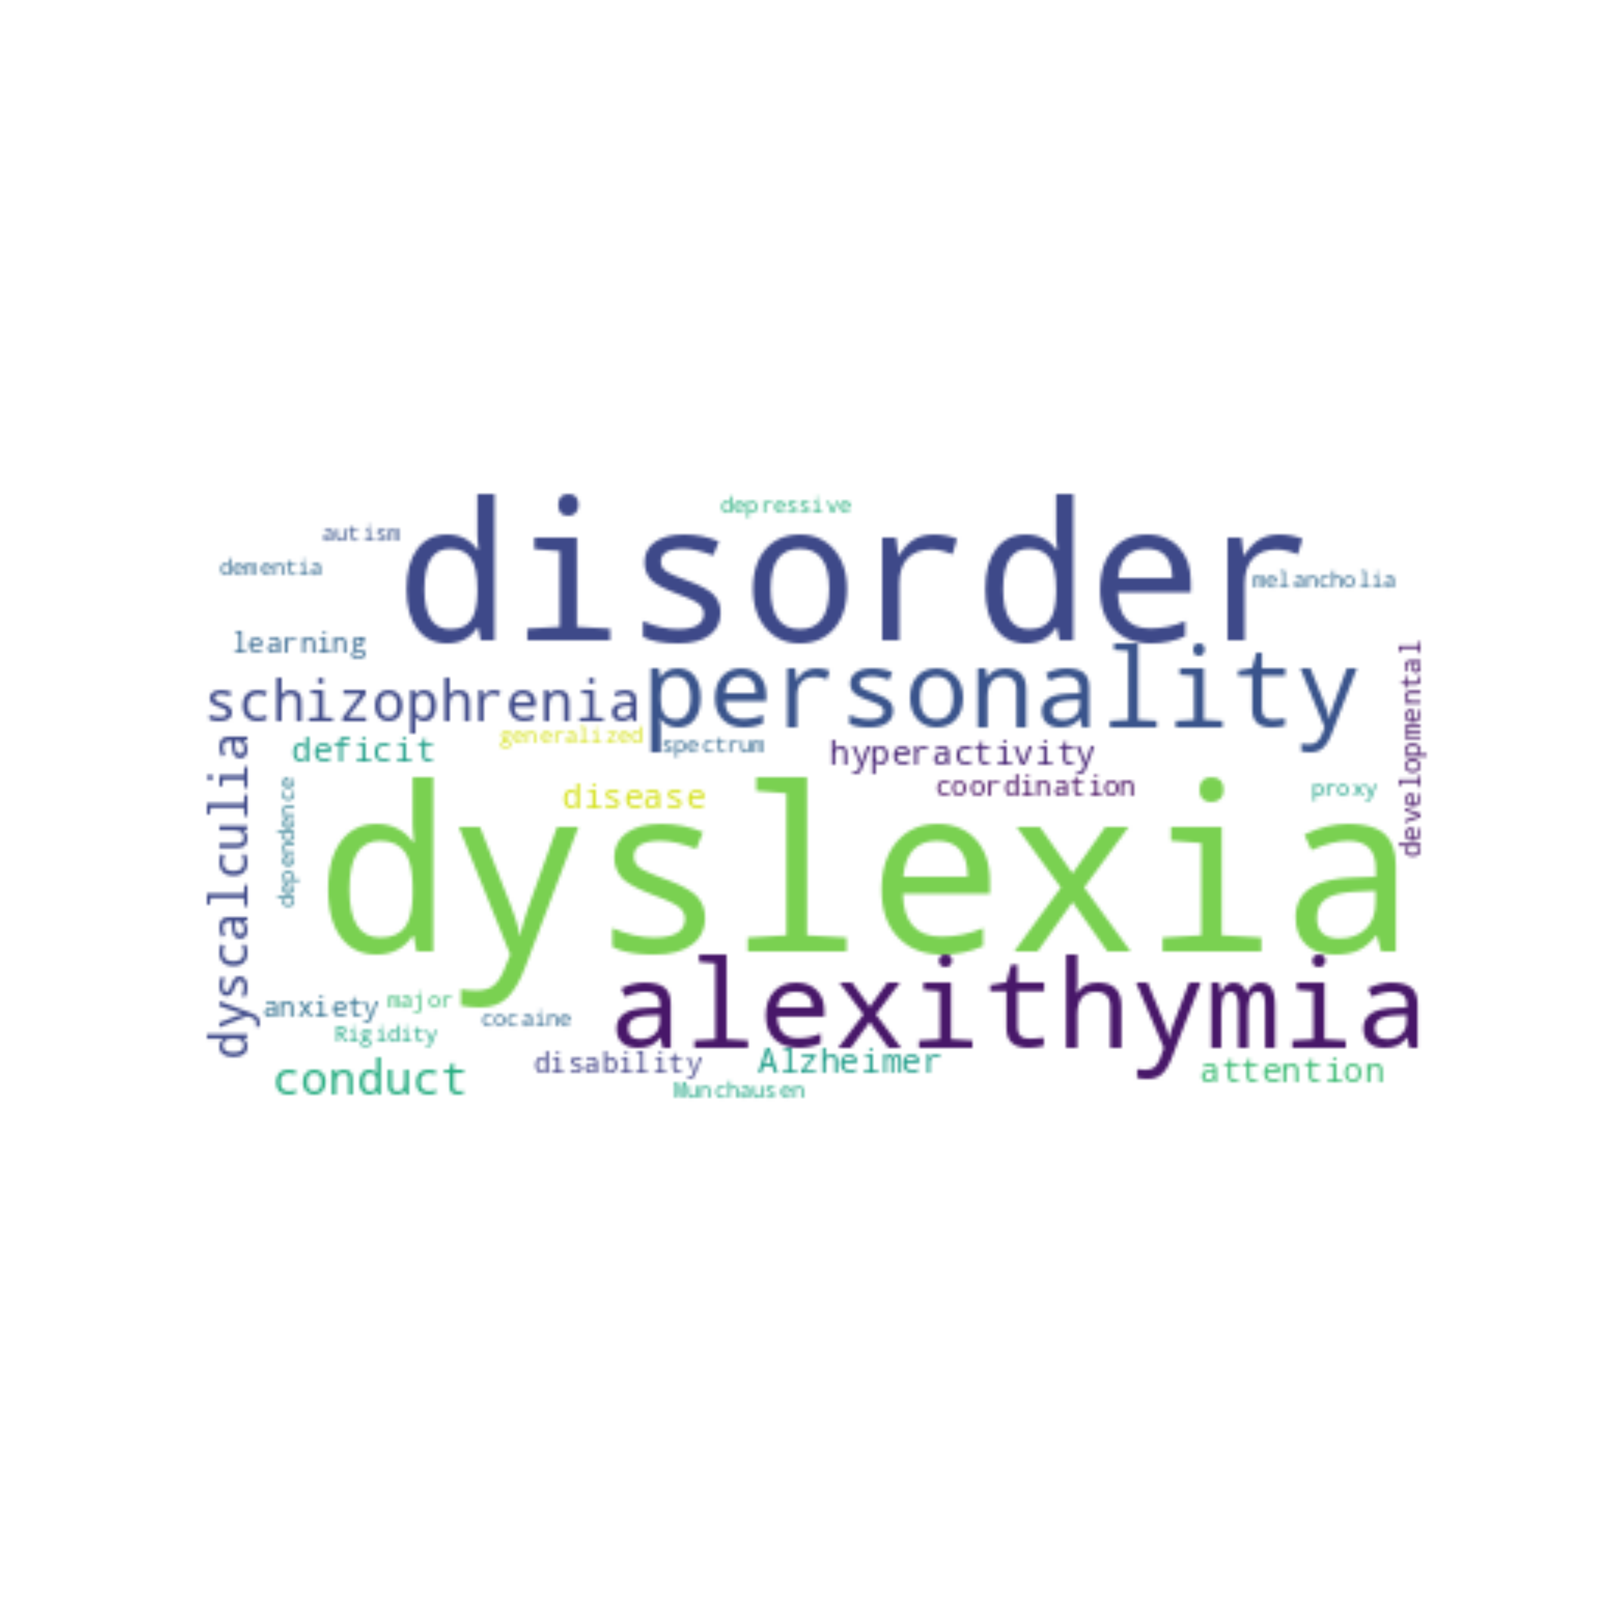
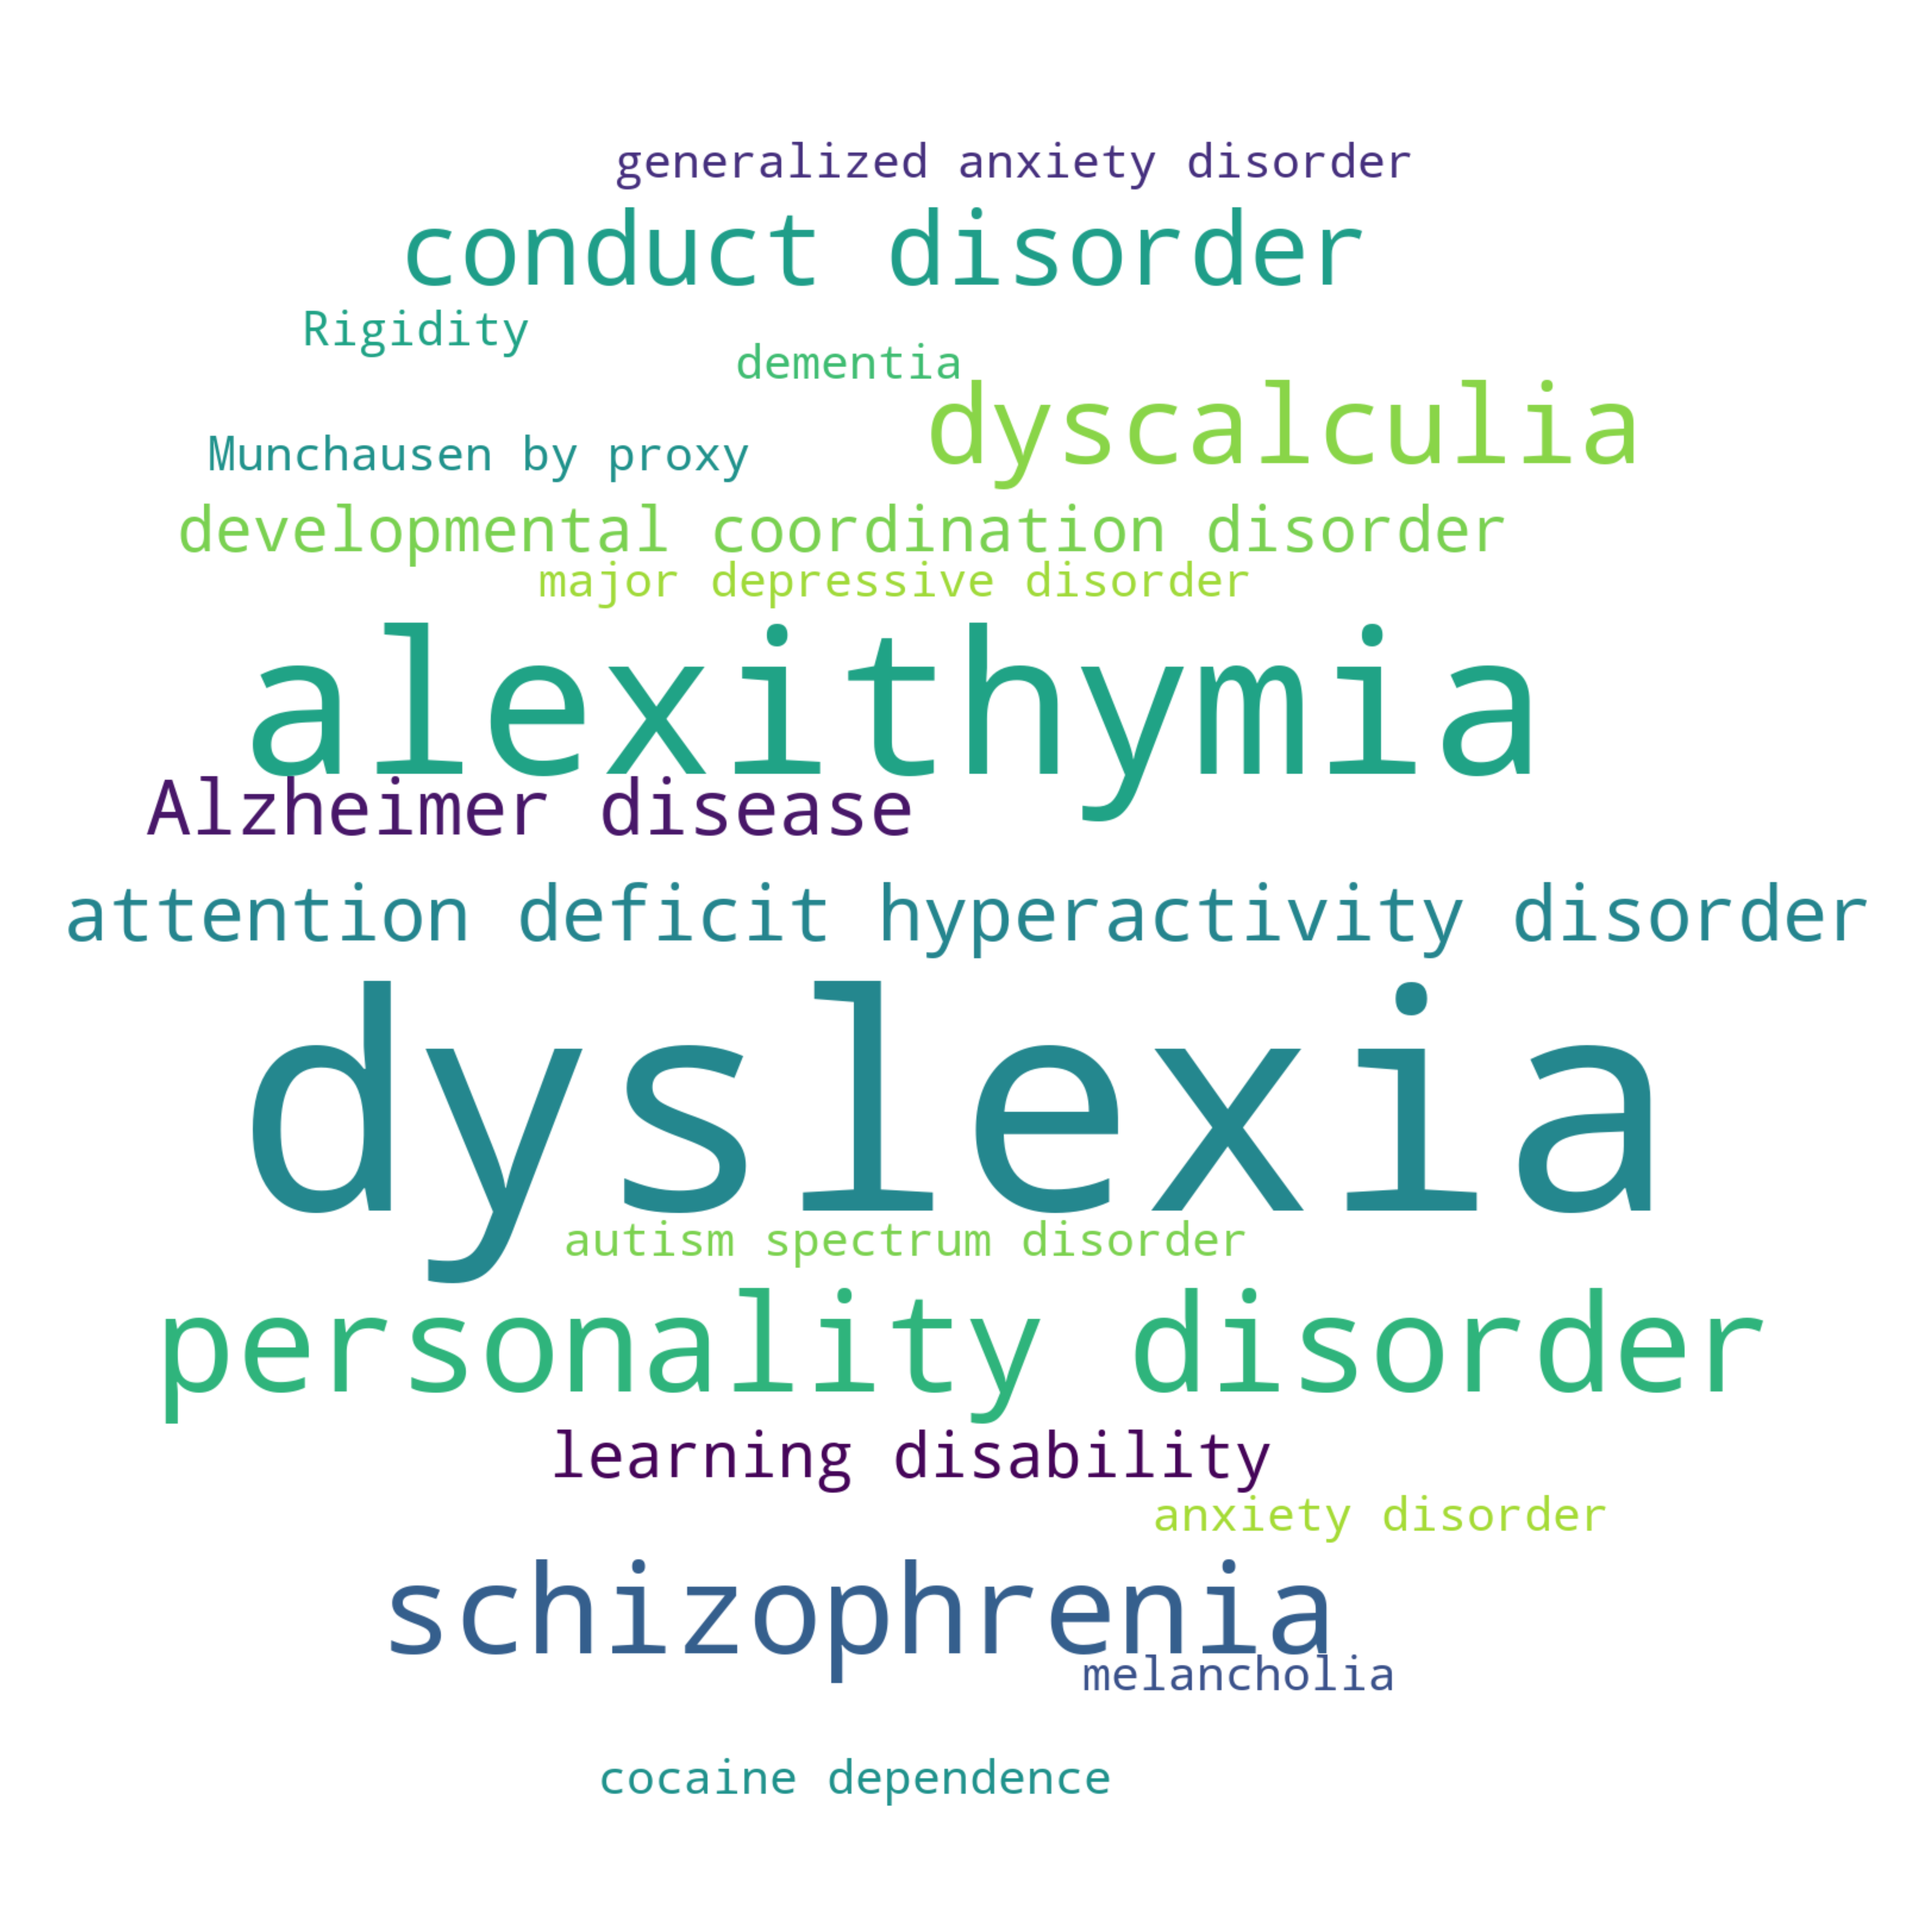
new analyses

Changed region(s): [[0.0312, 0.1875, 0.9688, 0.875], [0.1562, 0.0625, 0.7188, 0.1875], [0.3125, 0.9062, 0.5938, 0.9375]]

diff --git a/code/multilexicon_analysis.py b/code/multilexicon_analysis.py
@@ -9,11 +9,11 @@ Created on Wed Dec 22 14:40:45 2021
 import pandas as pd
 from wordcloud import WordCloud
 import matplotlib.pyplot as plt
-import parse_abstracts
 from parse_abstracts import *
 import seaborn as sns
+import numpy as np
 
-# root = "/Users/carlos/Documents/GitHub/sepex_ontology/"
+root = "/Users/carlos/Documents/GitHub/sepex_ontology/"
 
 sepex_editions = [2012,2014,2016,2018]
 lexicons = ["disorders","concepts","tasks","anatomy"]
@@ -28,25 +28,6 @@ for idx,sepex_year in enumerate(sepex_editions):
     print('Reading abstracts ' + str(sepex_year))
     lexicons_length = [] # to compute weighted overlap
     abstracts = read_abstracts(sepex_year)
-    
-    # # SEARCH IN COGNITIVE ATLAS LEXICON
-    # cogat_prevalence = search_cogat(abstracts) # get prevalence of cogat concepts in sepex abstracts
-    # cogat_prevalence_any = cogat_prevalence[cogat_prevalence[0] != 0] # remove rows with zeros (concepts that don't appear in SEPEX abstracts)
-    # cogat_overlap = len(cogat_prevalence_any) / len(cogat_prevalence) # compute overlap between cognitive atlas and SEPEX abstracts
-    # print("Overlap between CogAtlas and SEPEX" + str(sepex_year) + ": " + (str(cogat_overlap)))
-    
-    # # SEARCH IN DSM LEXICON
-    # dsm_prevalence = search_lexicon(abstracts,"lexicon_dsm") # get prevalence of cogat concepts in sepex abstracts
-    # dsm_prevalence_any = dsm_prevalence[dsm_prevalence[0] != 0] # remove rows with zeros (concepts that don't appear in SEPEX abstracts)
-    # dsm_overlap = len(dsm_prevalence_any) / len(dsm_prevalence) # compute overlap between cognitive atlas and SEPEX abstracts
-    # print("Overlap between DSM and SEPEX" + str(sepex_year) + ": " + (str(dsm_overlap)))
-    
-    # # SEARCH IN RDOC LEXICON
-    # rdoc_prevalence = search_lexicon(abstracts,"lexicon_rdoc") # get prevalence of cogat concepts in sepex abstracts
-    # rdoc_prevalence_any = rdoc_prevalence[rdoc_prevalence[0] != 0] # remove rows with zeros (concepts that don't appear in SEPEX abstracts)
-    # rdoc_overlap = len(rdoc_prevalence_any) / len(rdoc_prevalence) # compute overlap between cognitive atlas and SEPEX abstracts
-    # print("Overlap between RDoc and SEPEX" + str(sepex_year) + ": " + (str(rdoc_overlap)))
-    
     
     
     # SEARCH IN COGNITIVE ATLAS sub-LEXICONS
@@ -89,67 +70,108 @@ for idx,sepex_year in enumerate(sepex_editions):
     overlap_weighted.loc[idx,:] = overlap.loc[idx,:] * weights
 
 # plot non-weighted results
+sns.set_style("white")
+sns.set_context("poster",font_scale=0.75,rc={"figure.figsize":(20, 20)})
+
 g = sns.catplot(data=overlap,kind="bar")
 # g.set_xticks(range(len(sepex_editions))) # <--- set the ticks first
 # g.set_xticklabels(sepex_editions)
 g.despine(right=True)
 g.set_axis_labels("", "prevalence across editions")
-plt.savefig(root + 'figures_nospanish/prevalence_across_editions.png')
+g.figure.savefig(root + 'figures_nospanish/prevalence_across_editions.png',dpi=600,bbox_inches="tight")
 
+sns.set_style("white")
+sns.set_context("poster",font_scale=1.5,rc={"figure.figsize":(20, 20)})
 g = sns.lineplot(data=overlap)
 g.set_xticks(range(len(sepex_editions))) # <--- set the ticks first
 g.set_xticklabels(sepex_editions)
 g.set_ylabel("prevalence")
-plt.savefig(root + 'figures_nospanish/prevalence.png')
+g.figure.savefig(root + 'figures_nospanish/prevalence.png',dpi=600,bbox_inches="tight")
 
 
 # plot weighted results
+sns.set_style("white")
+sns.set_context("poster",font_scale=0.75,rc={"figure.figsize":(20, 20)})
+
 g = sns.catplot(data=overlap_weighted,kind="bar")
 # g.set_xticks(range(len(sepex_editions))) # <--- set the ticks first
 # g.set_xticklabels(sepex_editions)
 g.despine(right=True)
 g.set_axis_labels("", "weighted prevalence across editions")
-plt.savefig(root + 'figures_nospanish/w_prevalence_across_editions.png')
+g.figure.savefig(root + 'figures_nospanish/w_prevalence_across_editions.png',dpi=600,bbox_inches="tight")
 
-
+sns.set_style("white")
+sns.set_context("poster",font_scale=1.5,rc={"figure.figsize":(20, 20)})
 g = sns.lineplot(data=overlap_weighted)
 g.set_xticks(range(len(sepex_editions))) # <--- set the ticks first
 g.set_xticklabels(sepex_editions)
 g.set_ylabel("weighted prevalence")
-plt.savefig(root + 'figures_nospanish/w_prevalence.png')
+g.figure.savefig(root + 'figures_nospanish/w_prevalence.png',dpi=600,bbox_inches="tight")
 
+# polar plot
+overlap_weighted['year']= ['2012','2014','2016','2018'] #year
+overlap_weighted.set_index('year', inplace=True)
+# Each attribute we'll plot in the radar chart.
+labels = ['disorders', 'concepts', 'tasks', 'anatomy']
 
-# Word clouds
-# I'm turning this into a function so we can easily plug it for each lexicon
-def draw_wordclod(prevalence_data, fig_name):
-    
-    '''draw_wordclod
-    Input
-    ==========    
-    prevalence_data: dataframe with words as 'index' (row names) and and 
-    prevalence values in the first column
-    fig_name: name of the resulting figure
-    
-    Output
-    ==========    
-    displays and prints figure
-    '''
-    # extract words
-    word_list = prevalence_data.index
-    
-    # put all words into a single variable (needed for the wordcloud)
-    text = str(' ')
-    for idx, word in enumerate(word_list):
-        word = word + ' '
-        text += word * int(prevalence_data[0][idx])
-    
-    # create the wordcloud
-    wordcloud = WordCloud(background_color="white",
-                          collocations=False).generate(text)
+# Let's look at the 2012 sepex and plot it.
+values = overlap_weighted.loc['2012'].tolist()
+# Number of variables we're plotting.
+num_vars = len(labels)
+# Split the circle into even parts and save the angles
+# so we know where to put each axis.
+angles = np.linspace(0, 2 * np.pi, num_vars, endpoint=False).tolist()
 
-    # Display the generated image:
-    # the matplotlib way:
-    plt.figure(figsize=(4,4), dpi=1200)
-    plt.imshow(wordcloud, interpolation='bilinear')
-    plt.axis("off")
-    plt.savefig(root + 'figures/' + fig_name + '.png')
+# The plot is a circle, so we need to "complete the loop"
+# and append the start value to the end.
+values += values[:1]
+angles += angles[:1]
+
+# ax = plt.subplot(polar=True)
+fig, ax = plt.subplots(figsize=(6, 6), subplot_kw=dict(polar=True))
+
+# Helper function to plot each car on the radar chart.
+def add_to_radar(year, color):
+  values = overlap_weighted.loc[year].tolist()
+  values += values[:1]
+  ax.plot(angles, values, color=color, linewidth=1, label=year)
+  ax.fill(angles, values, color=color, alpha=0.25)
+
+add_to_radar('2012', '#1aaf6c')
+add_to_radar('2014', '#429bf4')
+add_to_radar('2016', '#d42cea')
+add_to_radar('2018', 'lightsalmon')
+# Fix axis to go in the right order and start at 12 o'clock.
+ax.set_theta_offset(np.pi / 2)
+ax.set_theta_direction(-1)
+
+# Draw axis lines for each angle and label.
+ax.set_thetagrids(np.degrees(angles[:-1]), labels)
+
+# Go through labels and adjust alignment based on where
+# it is in the circle.
+for label, angle in zip(ax.get_xticklabels(), angles):
+  if angle in (0, np.pi):
+    label.set_horizontalalignment('center')
+  elif 0 < angle < np.pi:
+    label.set_horizontalalignment('left')
+  else:
+    label.set_horizontalalignment('right')
+
+# Set position of y-labels (0-100) to be in the middle
+# of the first two axes.
+ax.set_rlabel_position(180 / num_vars)
+# Add some custom styling.
+# Change the color of the tick labels.
+ax.tick_params(colors='#222222')
+# Make the y-axis (0-100) labels smaller.
+ax.tick_params(axis='y', labelsize=20)
+# Change the color of the circular gridlines.
+ax.grid(color='#AAAAAA')
+# Change the color of the outermost gridline (the spine).
+ax.spines['polar'].set_color('#222222')
+# Change the background color inside the circle itself.
+ax.set_facecolor('#FAFAFA')
+# Add a legend as well.
+ax.legend(bbox_to_anchor=(1.75, 1.45),title="SEPEX year")
+ax.figure.savefig(root + 'figures_nospanish/w_prevalence_polar.png',dpi=600,bbox_inches="tight")

diff --git a/code/wj_sepex_overlap.py b/code/wj_sepex_overlap.py
@@ -1,0 +1,115 @@
+#!/usr/bin/env python3
+# -*- coding: utf-8 -*-
+"""
+Created on Tue Dec 21 11:14:57 2021
+
+@author: carlos
+"""
+import pandas as pd
+from wordcloud import WordCloud
+import matplotlib.pyplot as plt
+from parse_abstracts import *
+import seaborn as sns
+import numpy as np
+
+# get data directory (using getcwd() is needed to support running example in generated IPython notebook)
+root = "/home/javier/git_repos/sepex_ontology/"
+root = "/Users/carlos/documents/GitHub/sepex_ontology/"
+
+
+# Get concepts that overlap between WJ and cogat
+df = pd.read_csv(root + 'data/cogat_features.tsv',sep='\t')
+df = df.drop('Unnamed: 0', 1) # clean up
+prevalence = df.sum()
+prevalence_any = prevalence.loc[~(prevalence==0)]
+
+# compute overlap between cognitive atlas and william james
+overlap = len(prevalence_any) / len(prevalence)
+print("Overlap between CogAtlas and WJ's principles: " + (str(overlap)))
+
+# get all words that appear in WJ
+word_list = prevalence_any.index
+
+
+
+# compute proportion of sepex-cogat words that are shared with WJ-cogat
+
+sepex_editions = [2012,2014,2016,2018]
+lexicons = ["concepts"]
+
+overlap = pd.DataFrame(columns=lexicons)
+
+for idx,sepex_year in enumerate(sepex_editions):
+
+    # Read in abstracts
+    print('Reading abstracts ' + str(sepex_year))
+    lexicons_length = [] # to compute weighted overlap
+    abstracts = read_abstracts(sepex_year)
+    # SEARCH IN COGNITIVE ATLAS sub-LEXICONS
+    cogat_prevalence = search_lexicon(abstracts,"cognitive-atlas_concepts") # get prevalence of cogat concepts in sepex abstracts
+    cogat_prevalence_any = cogat_prevalence[cogat_prevalence[0] != 0]
+
+    word_list_sepex = cogat_prevalence_any.index
+    
+    intersection = set(word_list) & set(word_list_sepex)
+
+    overlap.loc[idx,"concepts"] = (len(intersection) / len(word_list_sepex)) * 100
+
+
+# plot overlap between WJ and sepex
+
+sns.set_style("white")
+sns.set_context("poster",font_scale=1.5,rc={"figure.figsize":(20, 20)})
+g = sns.lineplot(data=overlap)
+g.set_xticks(range(len(sepex_editions))) # <--- set the ticks first
+g.set_xticklabels(sepex_editions)
+g.set_ylabel("overlap (%)")
+g.set_ylabel("overlap (%)")
+g.set_ylim(0,100)
+g.get_legend().remove()
+g.figure.savefig(root + 'figures_nospanish/wj_sepex_overlap.png',dpi=600,bbox_inches="tight")
+
+## plot intersection and not intersection word clouds (for SEPEX 2018)
+
+# find words shared and unique
+intersection = list(set(word_list) & set(word_list_sepex))
+sepex_remainder = set(word_list_sepex) - set(word_list)
+wj_remainder = set(word_list) - set(word_list_sepex)
+
+# filter previous series to get at frequency for shared and unique
+
+shared = cogat_prevalence_any[cogat_prevalence_any.index.isin(intersection)]
+
+unique = cogat_prevalence_any[cogat_prevalence_any.index.isin(sepex_remainder)]
+
+draw_wordclod(shared, 'sepex18_shared_WJ_cloud')
+draw_wordclod(unique, 'sepex18_unique_WJ_cloud')
+
+# extract words
+word_list = prevalence_data.index
+
+unique["count"] = unique[0]
+unique["word"] = unique.index
+
+data = dict(zip(unique['word'].tolist(), unique['count'].tolist()))
+
+wc = WordCloud(width=800, height=400, max_words=200).generate_from_frequencies(data)
+
+plt.figure(figsize=(10, 10))
+plt.imshow(wc, interpolation='bilinear')
+plt.axis('off')
+plt.show()
+
+shared["count"] = shared[0]
+shared["word"] = shared.index
+
+data = dict(zip(shared['word'].tolist(), shared['count'].tolist()))
+
+wc = WordCloud(width=800, height=400, max_words=200).generate_from_frequencies(data)
+
+plt.figure(figsize=(10, 10))
+plt.imshow(wc, interpolation='bilinear')
+plt.axis('off')
+plt.show()
+
+

diff --git a/code/parse_abstracts.py b/code/parse_abstracts.py
@@ -22,13 +22,16 @@ from wordcloud import WordCloud, STOPWORDS
 from cognitiveatlas.api import get_concept
 from googletrans import Translator
 translator = Translator()
+import matplotlib.pyplot as plt
+import numpy as np
 
 # Where are we?
-try:
-    os.chdir(os.path.dirname(sys.argv[0])) # not working for me (carlos)
-except:
-    root = "/Users/carlos/Documents/GitHub/sepex_ontology/"
-    root = "/home/javier/git_repos/sepex_ontology/"
+# try:
+#     os.chdir(os.path.dirname(sys.argv[0])) # not working for me (carlos)
+# except:
+    
+root = "/home/javier/git_repos/sepex_ontology/"
+root = "/Users/carlos/Documents/GitHub/sepex_ontology/"
     
 ###### Poldrack's functions
 # Functions to parse text
@@ -141,7 +144,45 @@ def search_lexicon(input_text,lexicon):
     #print("Found %s total occurrences for %s" %(features.loc[pid].sum(),pid))            
     return features.T
 
+# Word clouds
+# I'm turning this into a function so we can easily plug it for each lexicon
+def draw_wordclod(prevalence_data, fig_name):
+    
+    '''draw_wordclod
+    Input
+    ==========    
+    prevalence_data: dataframe with words as 'index' (row names) and and 
+    prevalence values in the first column
+    fig_name: name of the resulting figure
+    
+    Output
+    ==========    
+    displays and prints figure
+    
+    '''
+    
+    x, y = np.ogrid[:1600, :1600]
+    
+    mask = (x - 800) ** 2 + (y - 800) ** 2 > 800 ** 2
+    mask = 255 * mask.astype(int)
+    # extract words
+    prevalence_data["count"] = prevalence_data[0]
+    prevalence_data["word"] = prevalence_data.index
 
+    data = dict(zip(prevalence_data['word'].tolist(), prevalence_data['count'].tolist()))
+    
+    # create the wordcloud
+    wordcloud = WordCloud(background_color="white",
+                          width=1600,
+                          height=1600, mask=mask).generate_from_frequencies(data)
+
+    # Display the generated image:
+    # the matplotlib way:
+    plt.figure(figsize=(20,20), dpi=300)
+    plt.imshow(wordcloud, interpolation='bilinear')
+    plt.tight_layout(pad=0)
+    plt.axis("off")
+    plt.savefig(root + 'figures/' + fig_name + '.png', bbox_inches='tight')
 
 
     

diff --git a/code/cogat_wj_wordcloud.py b/code/cogat_wj_wordcloud.py
@@ -11,8 +11,9 @@ import matplotlib.pyplot as plt
 
 
 # get data directory (using getcwd() is needed to support running example in generated IPython notebook)
-root = "/Users/carlos/documents/GitHub/sepex_ontology/"
 root = "/home/javier/git_repos/sepex_ontology/"
+root = "/Users/carlos/documents/GitHub/sepex_ontology/"
+
 
 # Read the whole text.
 df = pd.read_csv(root + 'data/cogat_features.tsv',sep='\t')
